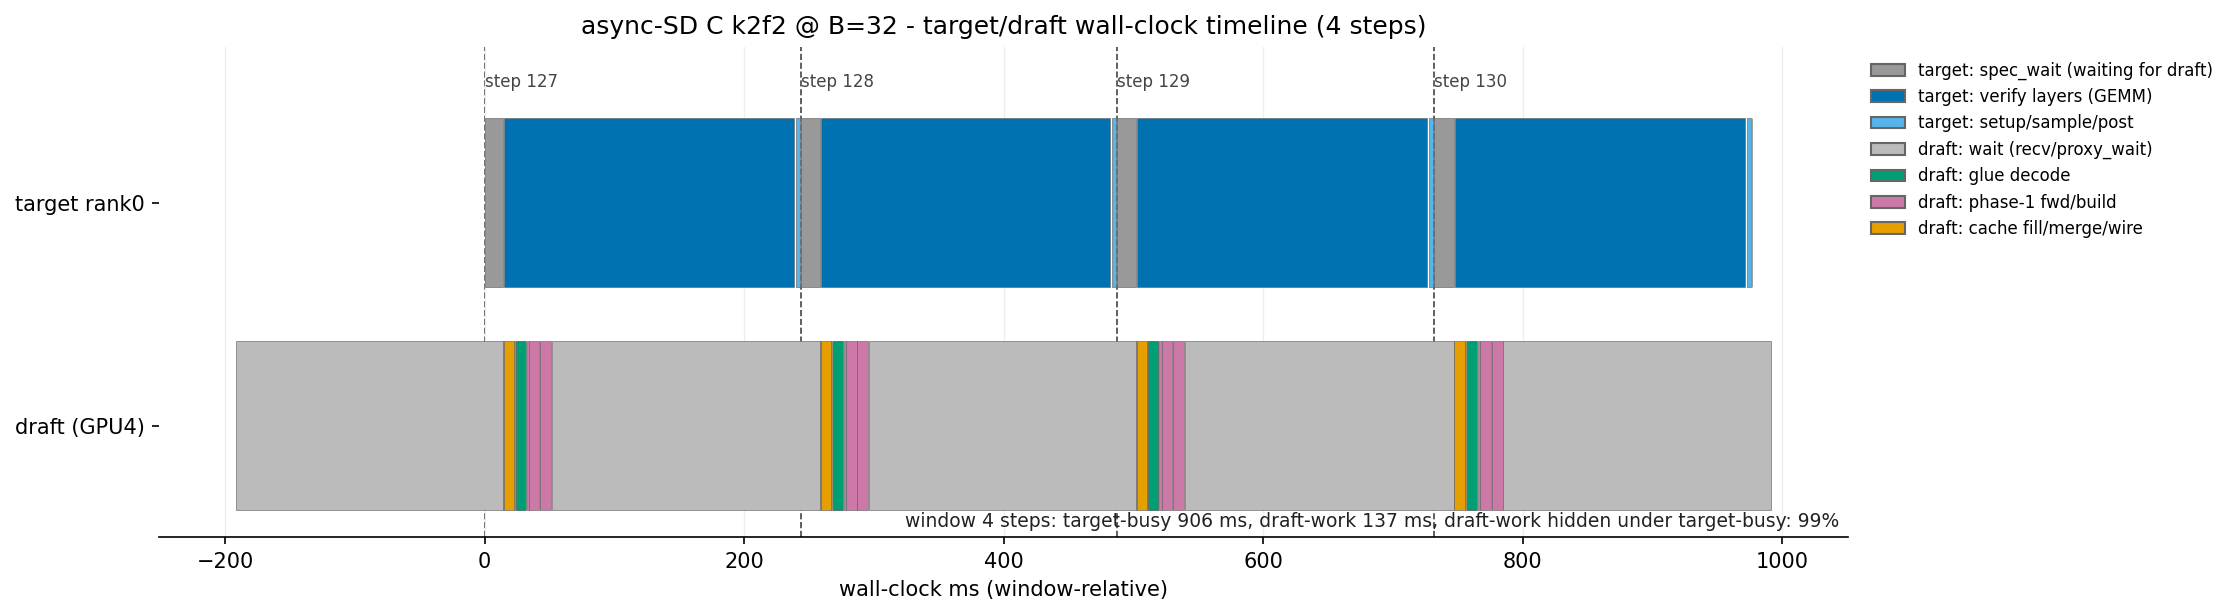
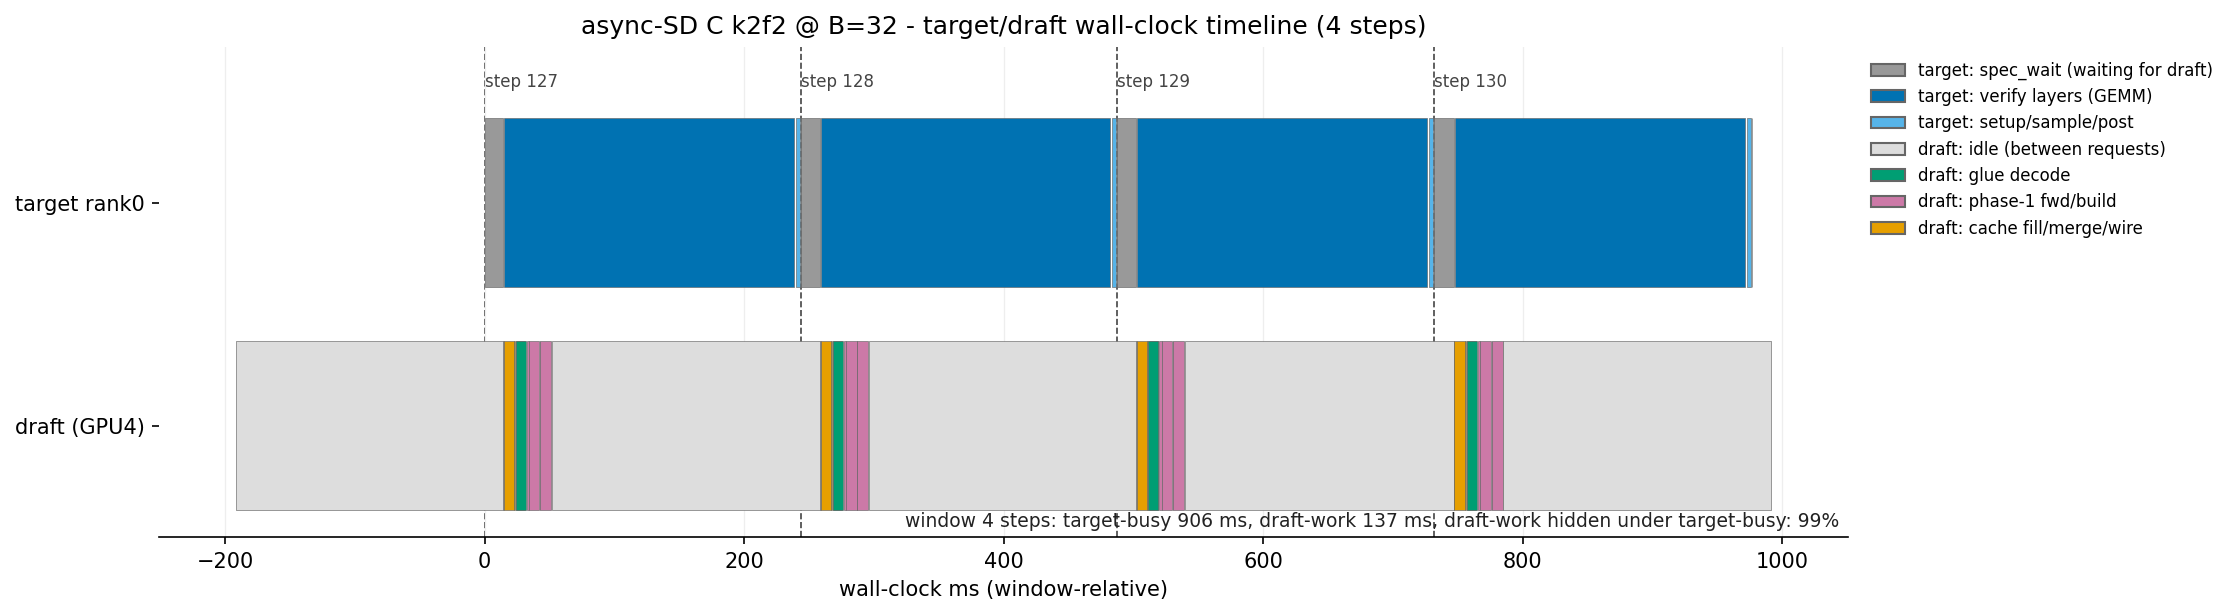
docs(duet): overlap 타임라인 재작업 — 정식 도구(plot_duet_aligned_timeline) 렌더 + proxy_wait/idle 분리
사용자 지적 반영: (1) 기존 정식 step-뷰 도구를 놓치고 간이 플롯을
새로 만든 것 정정 — 정식 도구 렌더(step121 mixed + hit_k1/miss 대표)
추가; (2) 간이 그림의 'draft 여유' 과장 정정 — 회색을 idle(~95ms)과
proxy_wait(136.7ms, P2가 target exit layer 도달을 기다리는 구조적
블로킹)로 분리. phase1_replay 15ms/fwd — latency-bound 가정 B=32 무효.
proxy_wait 137ms = exit 앞당기기의 정량 예산 (7월 초 아이디어 부활).

Changed region(s): [[0.0927, 0.5561, 0.803, 0.8341], [0.8339, 0.2163, 0.9884, 0.278], [0.8648, 0.3089, 0.9575, 0.3398]]

diff --git a/ssd/experiments/proxy_async_overlap/b_gt1/bscale32/overlap_profile/plot_timeline.py b/ssd/experiments/proxy_async_overlap/b_gt1/bscale32/overlap_profile/plot_timeline.py
@@ -26,7 +26,8 @@ CAT = {
     "t_layers": ("#0072B2", "target: verify layers (GEMM)"),
     "t_proxy":  ("#D55E00", "target: proxy block (exit+policy+send)"),
     "t_misc":   ("#56B4E9", "target: setup/sample/post"),
-    "d_wait":   ("#BBBBBB", "draft: wait (recv/proxy_wait)"),
+    "d_idle":   ("#DDDDDD", "draft: idle (between requests)"),
+    "d_pwait":  ("#BBBBBB", "draft: proxy_wait (BLOCKED on target exit layer)"),
     "d_glue":   ("#009E73", "draft: glue decode"),
     "d_p1":     ("#CC79A7", "draft: phase-1 fwd/build"),
     "d_p2":     ("#F0E442", "draft: phase-2 fwd/build"),
@@ -44,7 +45,7 @@ T_MAP = {
     "target_postprocess": "t_misc",
 }
 D_PREFIX = [  # (prefix, category) — first match wins
-    ("draft_recv", "d_wait"), ("proxy_wait", "d_wait"),
+    ("draft_recv", "d_idle"), ("proxy_wait", "d_pwait"),
     ("glue", "d_glue"), ("draft_glue", "d_glue"),
     ("phase1", "d_p1"), ("phase2", "d_p2"),
     ("hit_cache_respond", "d_cache"), ("merge_cache", "d_cache"),
@@ -52,7 +53,7 @@ D_PREFIX = [  # (prefix, category) — first match wins
     # non-DUET async-SD draft labels (best effort; unknown -> other)
     ("tree", "d_p1"), ("jit", "d_cache"), ("spec", "d_p1"),
 ]
-D_WAIT = {"d_wait"}
+D_WAIT = {"d_idle", "d_pwait"}
 
 
 def load(path):
@@ -125,7 +126,8 @@ def main():
         ax.broken_barh([(ms(e["wall_start_ns"]),
                          ms(e["wall_end_ns"]) - ms(e["wall_start_ns"]))],
                        (0.12, 0.76), facecolors=CAT[c][0],
-                       edgecolors="#666666", linewidth=0.3)
+                       edgecolors="#666666", linewidth=0.3,
+                       hatch="//" if c == "d_pwait" else None)
 
     # step boundaries = start of each step's first top-level target event
     for s in win_steps:
